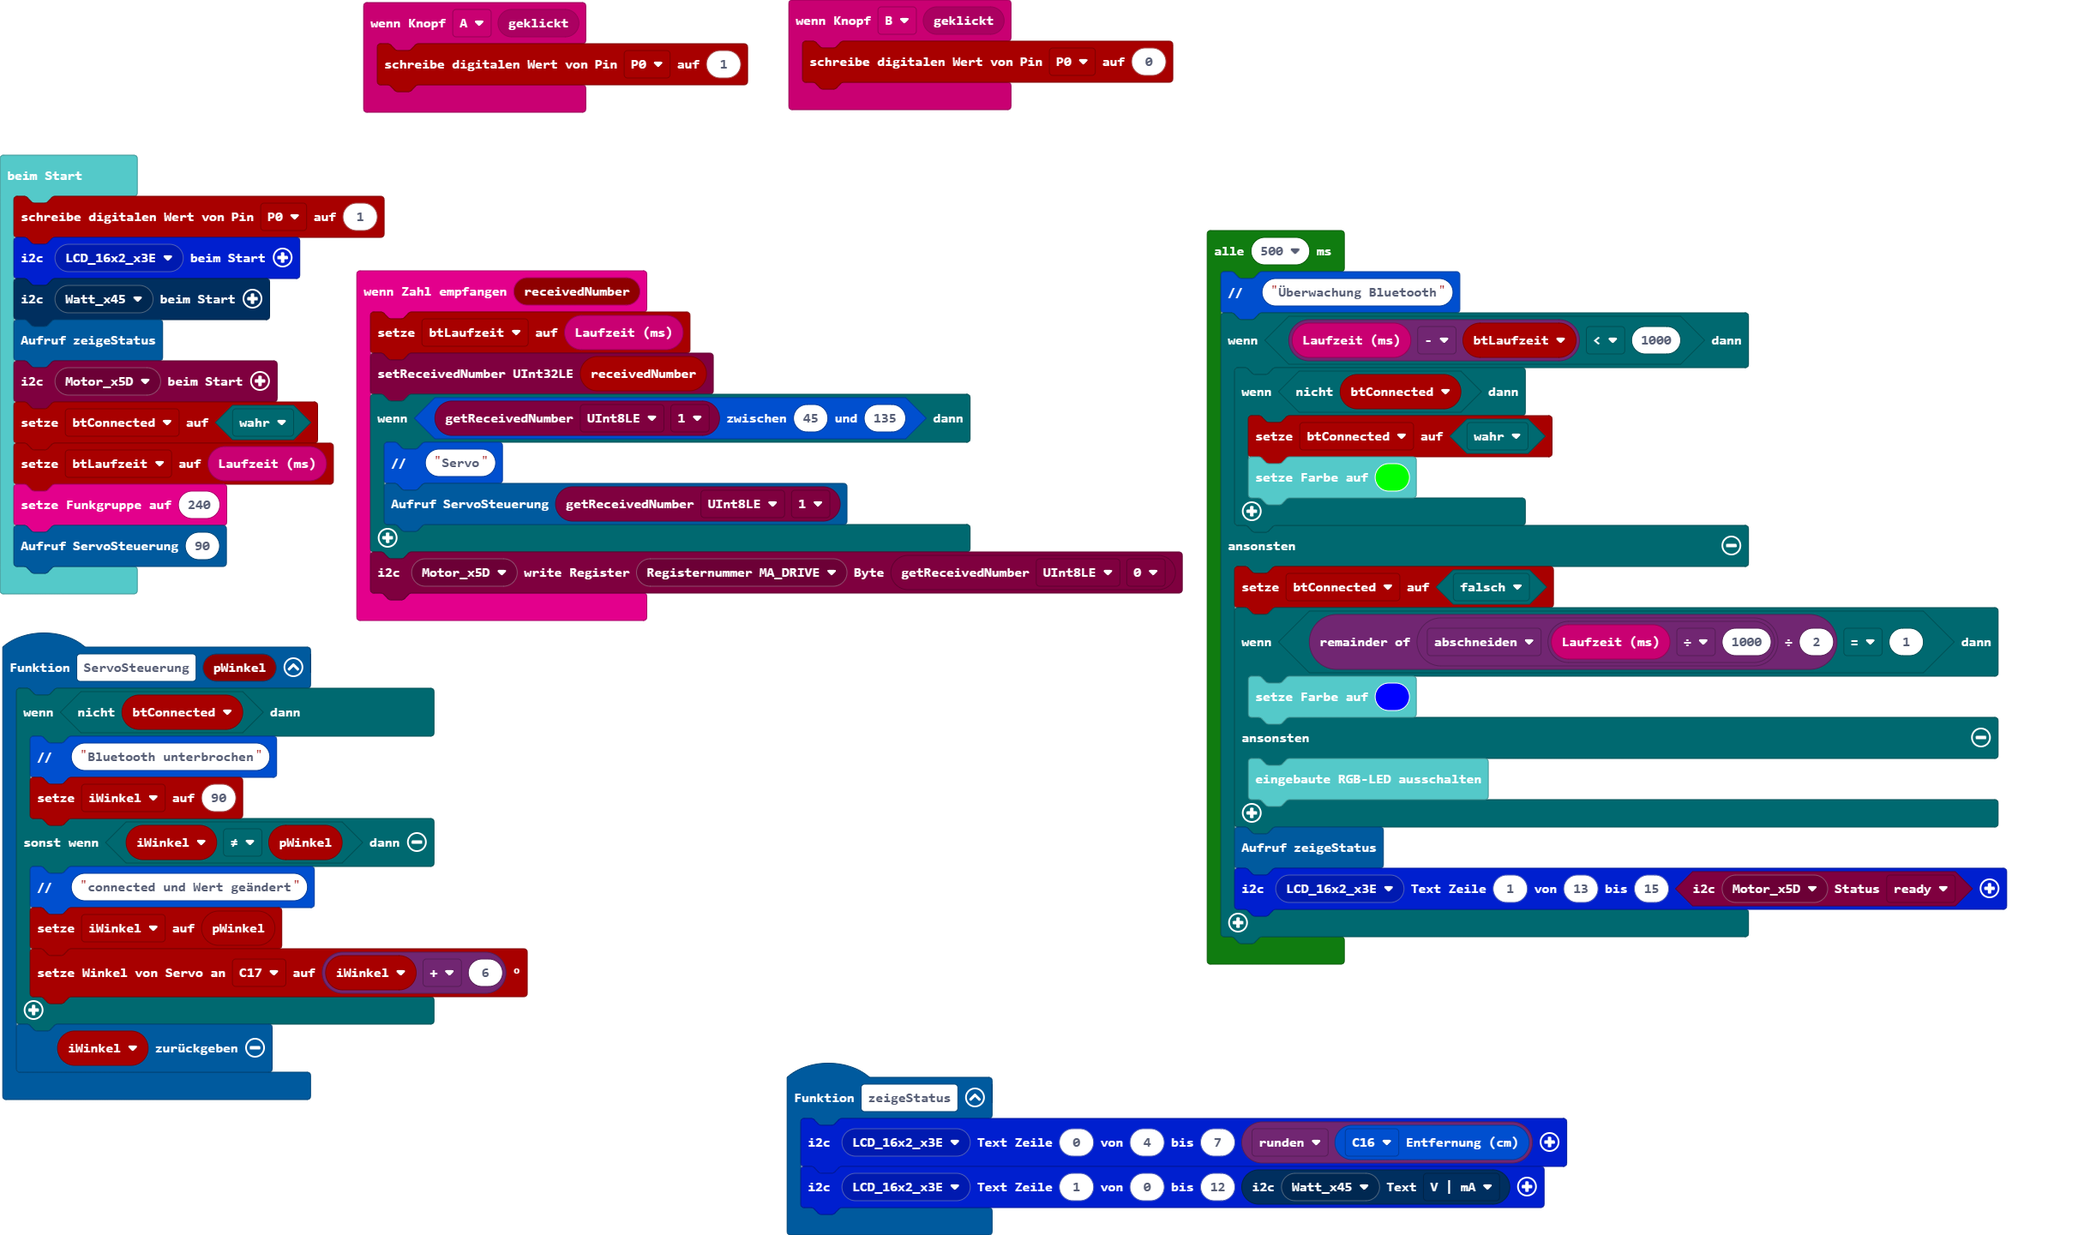
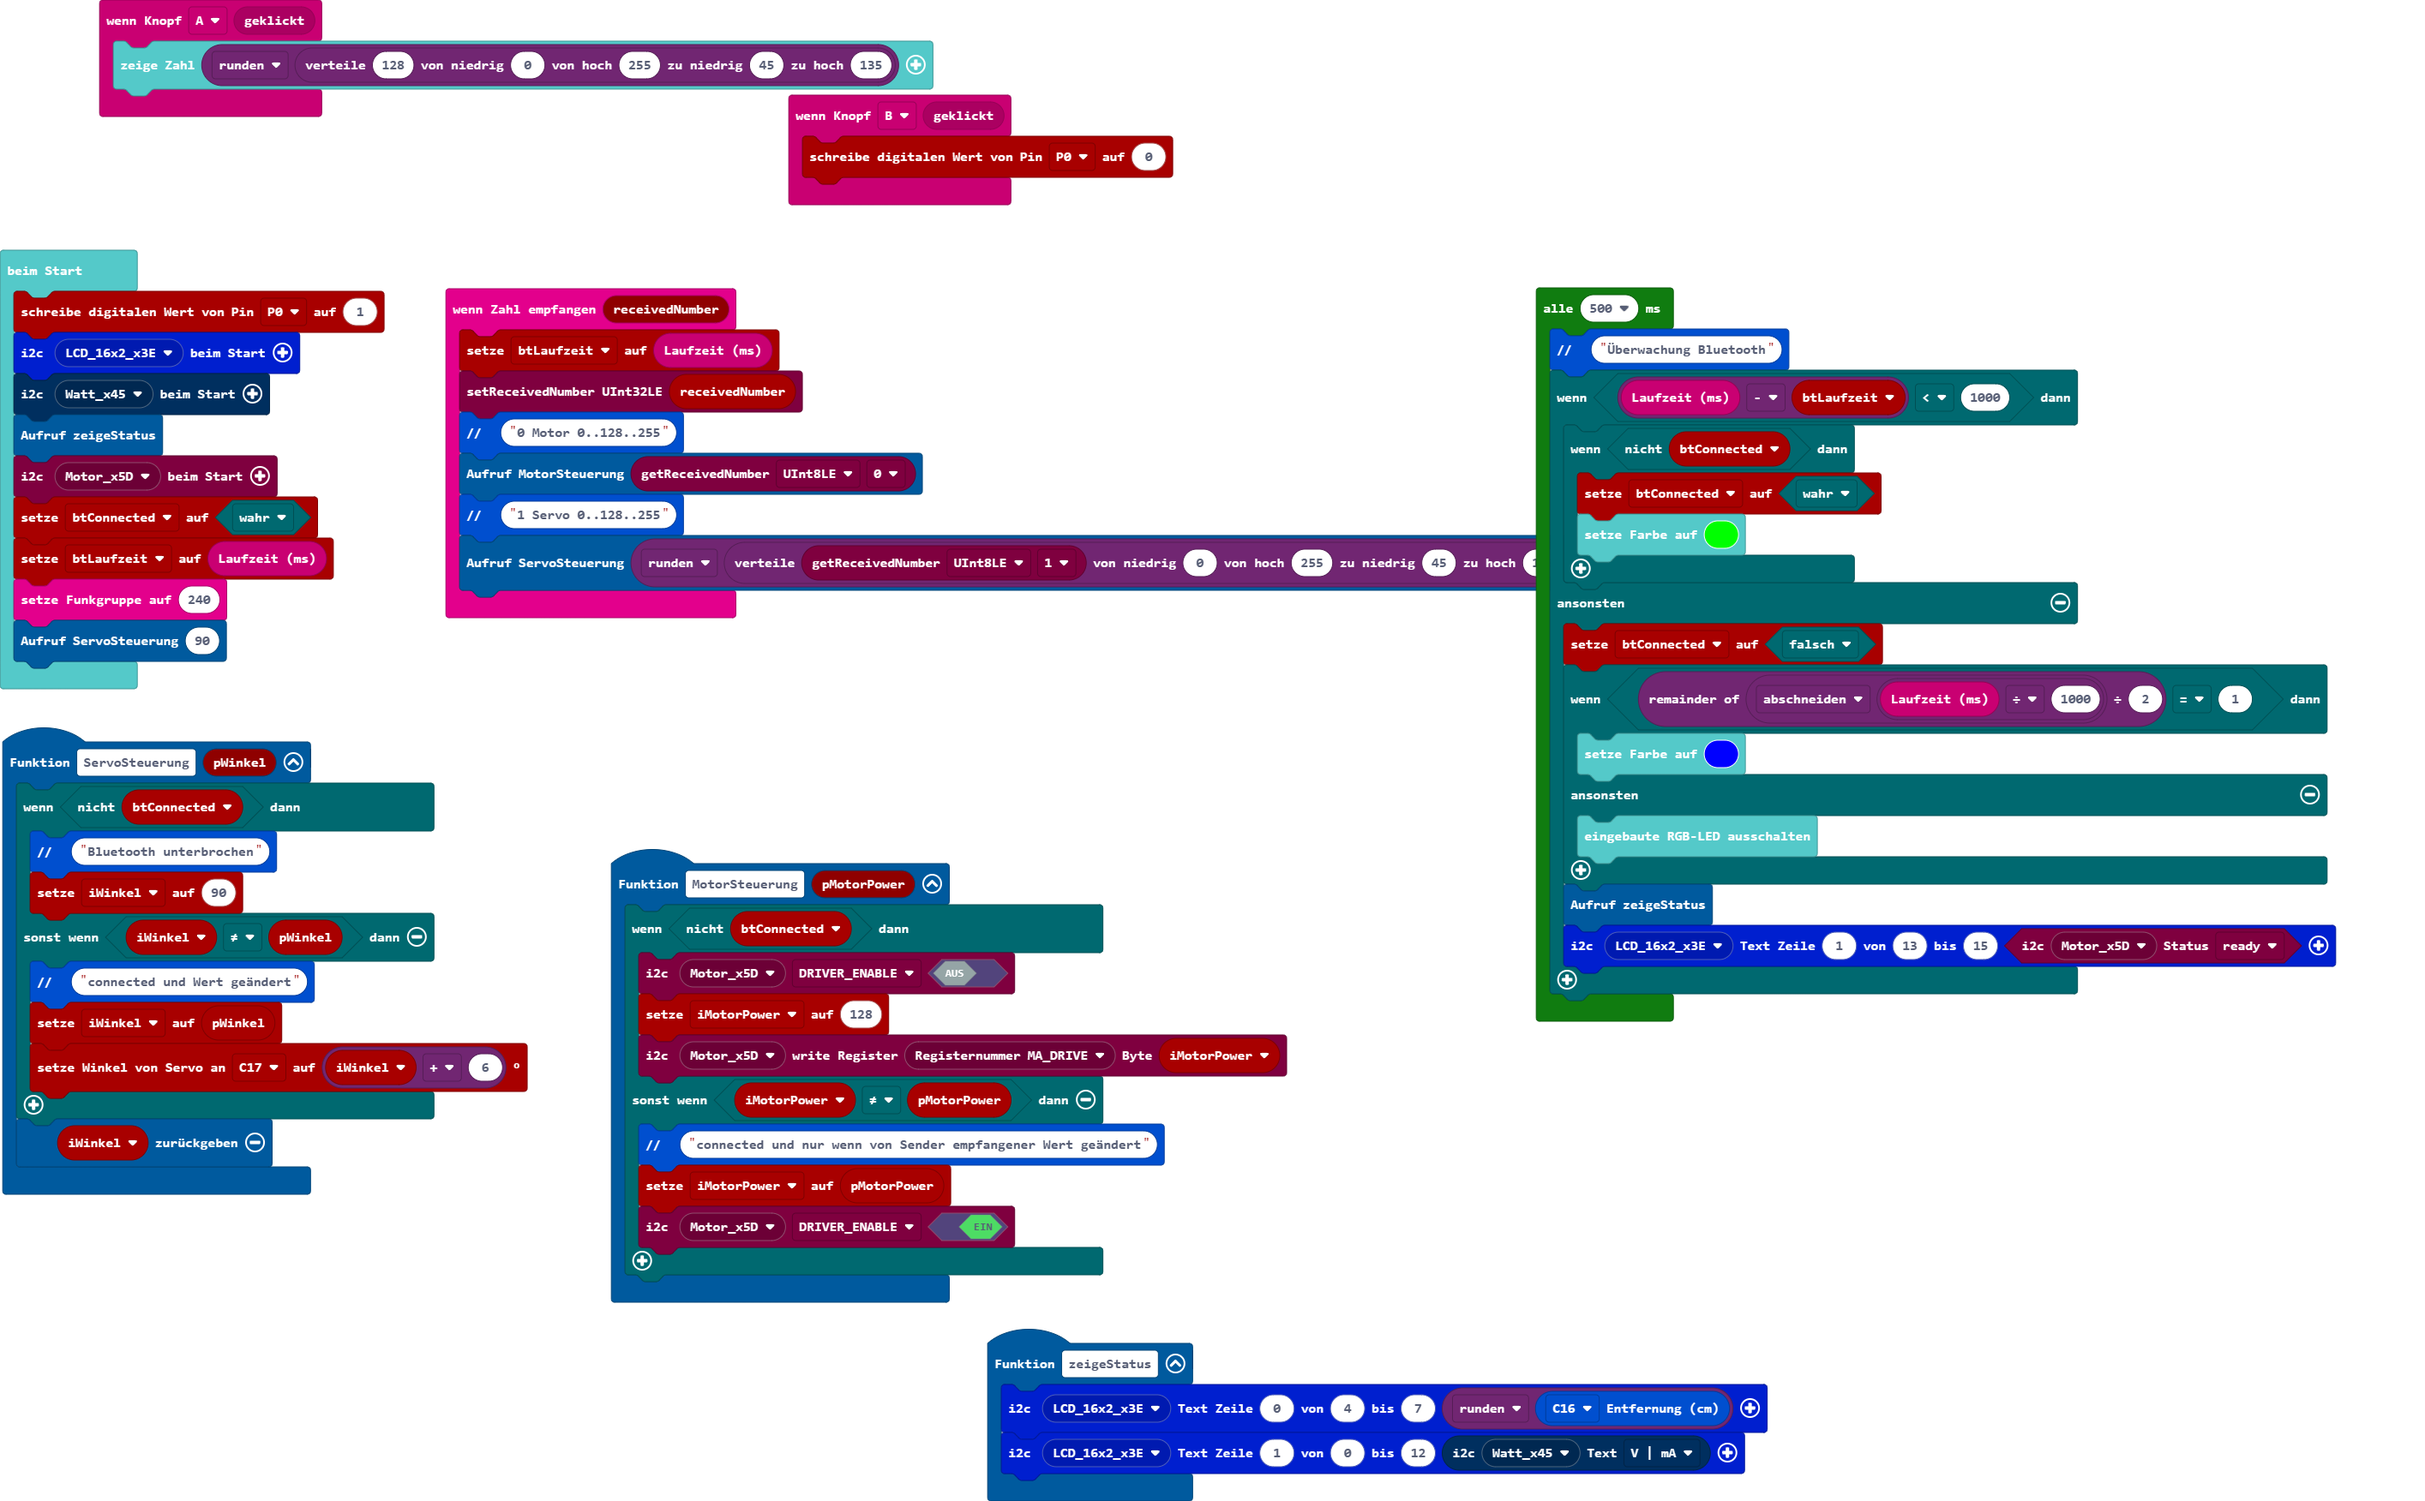
Aktualisiere main.blocks, main.ts

diff --git a/main.ts b/main.ts
@@ -1,14 +1,24 @@
 radio.onReceivedNumber(function (receivedNumber) {
     btLaufzeit = input.runningTime()
     qwiicmotor.setReceivedNumber(receivedNumber)
-    if (bit.between(qwiicmotor.getReceivedNumber(NumberFormat.UInt8LE, qwiicmotor.eOffset.z1), 45, 135)) {
-        bit.comment("Servo")
-        ServoSteuerung(qwiicmotor.getReceivedNumber(NumberFormat.UInt8LE, qwiicmotor.eOffset.z1))
-    }
-    qwiicmotor.writeRegister(qwiicmotor.qwiicmotor_eADDR(qwiicmotor.eADDR.Motor_x5D), qwiicmotor.qwiicmotor_eRegister(qwiicmotor.eRegister.MA_DRIVE), qwiicmotor.getReceivedNumber(NumberFormat.UInt8LE, qwiicmotor.eOffset.z0))
+    bit.comment("0 Motor 0..128..255")
+    MotorSteuerung(qwiicmotor.getReceivedNumber(NumberFormat.UInt8LE, qwiicmotor.eOffset.z0))
+    bit.comment("1 Servo 0..128..255")
+    ServoSteuerung(Math.round(Math.map(qwiicmotor.getReceivedNumber(NumberFormat.UInt8LE, qwiicmotor.eOffset.z1), 0, 255, 45, 135)))
 })
+function MotorSteuerung (pMotorPower: number) {
+    if (!(btConnected)) {
+        qwiicmotor.controlRegister(qwiicmotor.qwiicmotor_eADDR(qwiicmotor.eADDR.Motor_x5D), qwiicmotor.eControl.DRIVER_ENABLE, false)
+        iMotorPower = 128
+        qwiicmotor.writeRegister(qwiicmotor.qwiicmotor_eADDR(qwiicmotor.eADDR.Motor_x5D), qwiicmotor.qwiicmotor_eRegister(qwiicmotor.eRegister.MA_DRIVE), iMotorPower)
+    } else if (iMotorPower != pMotorPower) {
+        bit.comment("connected und nur wenn von Sender empfangener Wert geändert")
+        iMotorPower = pMotorPower
+        qwiicmotor.controlRegister(qwiicmotor.qwiicmotor_eADDR(qwiicmotor.eADDR.Motor_x5D), qwiicmotor.eControl.DRIVER_ENABLE, true)
+    }
+}
 input.onButtonEvent(Button.A, input.buttonEventClick(), function () {
-    pins.digitalWritePin(DigitalPin.P0, 1)
+    basic.showNumber(Math.round(Math.map(128, 0, 255, 45, 135)))
 })
 function zeigeStatus () {
     lcd16x2rgb.writeText(lcd16x2rgb.lcd16x2_eADDR(lcd16x2rgb.eADDR_LCD.LCD_16x2_x3E), 0, 4, 7, Math.round(bit.measureInCentimeters(DigitalPin.C16)))
@@ -29,6 +39,7 @@ function ServoSteuerung (pWinkel: number) {
     return iWinkel
 }
 let iWinkel = 0
+let iMotorPower = 0
 let btLaufzeit = 0
 let btConnected = false
 pins.digitalWritePin(DigitalPin.P0, 1)
